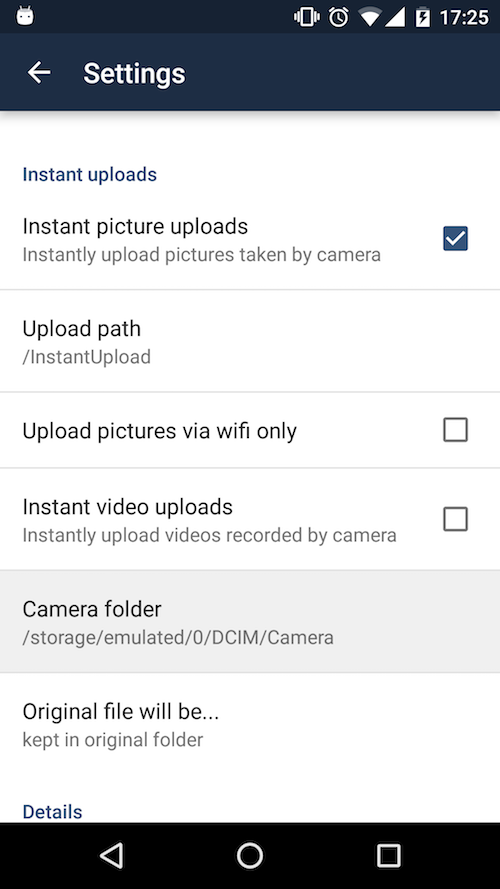
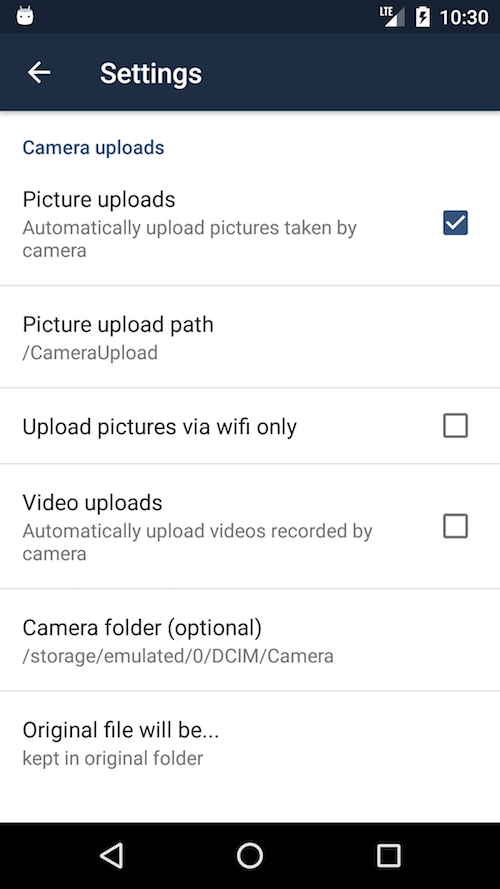
Replace Instant Uploads feature with Camera Uploads feature
This fixes https://github.com/owncloud/documentation/issues/3709.

diff --git a/user_manual/android_app.rst b/user_manual/android_app.rst
@@ -8,7 +8,7 @@ However, the ownCloud Android app offers some advantages over the Web interface:
 * A simplified interface that fits nicely on a tablet or smartphone
 * Automatic synchronization of your files
 * Share files with other ownCloud users and groups, and create multiple public share links
-* Instant uploads of photos or videos recorded on your Android device
+* Upload of photos and videos recorded on your Android device
 * Easily add files from your device to ownCloud
 * Two-factor authentication
 
@@ -228,7 +228,7 @@ Uploading Files Taken From the Camera
 ~~~~~~~~~~~~~~~~~~~~~~~~~~~~~~~~~~~~~
 
 Pictures and videos can be uploaded from your smartphone after choosing the folder where they are stored.
-To specify where they are located, in the *"Settings"* options, under `Instant Uploads`_, enable one of *"Instant picture uploads"* or *"Instant video uploads"*. 
+To specify where they are located, in the *"Settings"* options, under `Camera uploads`_, enable one of *"Picture uploads"* or *"Video uploads"*. 
 After that, a further option called *"Camera folder"* will become visible, as in the screenshot below. 
 
 .. figure:: images/specify-camera-folder.png
@@ -270,35 +270,34 @@ Use the *"Settings"* screen to control your ownCloud applications settings and f
 .. figure:: images/android-settings-page.jpg
    :alt: the Settings screen.
 
-Instant Uploads
-~~~~~~~~~~~~~~~
+Camera Uploads
+~~~~~~~~~~~~~~
 
-If you take photos or create videos with your Android device, they can be instantly uploaded to your ownCloud server. 
-To enable this, under *"Instant Uploads"* tap one or both of:
+If you take photos or create videos with your Android device, they can be automatically uploaded to your ownCloud server. 
+To enable this, under *"Camera uploads"* tap one or both of *Picture uploads* or *Video uploads*.
 
-- "Instant picture uploads" 
-- "Instant video uploads"
+.. figure:: images/android-settings-camera-upload.png
+   :alt: the Camera upload settings screen.
 
-.. figure:: images/android-settings-instant-upload.png
-   :alt: the Settings screen.
+By enabling these features any new photos or videos which you create will be automatically uploaded every 15 minutes.
+Photos and videos are not uploaded when they’re created, to focus on reliability, instead of immediacy, and to avoid battery draining caused by excessive checking of the camera folder.
 
-These start the process of uploading any new photos and/or videos which you create.
+.. note::
+   Please be aware that if you used the earlier *Instant Uploads* feature, you will lose the configuration and have to enable the "Camera uploads" feature if you want to use it, since it needs to be initialized and configured properly.
+
 If you’re concerned about mobile data usage, or have an account with limited data available, you can limit uploading to only when a WiFi is in use. 
 This option is visible once you've enabled the respective option.
-For photos tap **"Upload pictures via wifi only"**:sup:`1`. 
-For videos tap **"Upload videos via wifi only"**:sup:`2`
+For photos tap **"Upload pictures via wifi only"**. 
+For videos tap **"Upload videos via wifi only"**.
 
-.. figure:: images/android-settings-enable-instant-upload.png
-   :alt: Enabling instant upload picture and video 
+By default, photos and videos are uploaded to a directory called ``/CameraUpload``. 
+However, you also have the option to use an existing directory, or to create a new one. 
+To change the upload location, tap on *Picture upload path* under photos or *Video upload* path under videos, and choose one of the folders displayed. 
 
-By default, photos and videos are uploaded to a directory called file:`/InstantUpload`. 
-However, you also have the option to choose any other existing directory, or to create a new one. 
-To change the upload location, tap on *"Upload path"* under either photos or videos, and choose one of the folders which is displayed. 
-
-To create a new folder, click the More options menu, in the top right-hand corner. 
-This will display the menu option: *"New folder"*. 
-Tap it and enter the name of the new folder in the *"Folder name"* dialog.
-Then, tap the newly created folder and tap *"Choose"* in the bottom right-hand corner. 
+To create a new folder, click the *More options* menu, in the top right-hand corner. 
+This will display the menu option: *New folder*. 
+Tap it and enter the name of the new folder in the *Folder name* dialog.
+Then, tap the newly created folder and tap *Choose* in the bottom right-hand corner. 
 You'll see that the path has been updated.
 
 Passcode Locks & Pins
